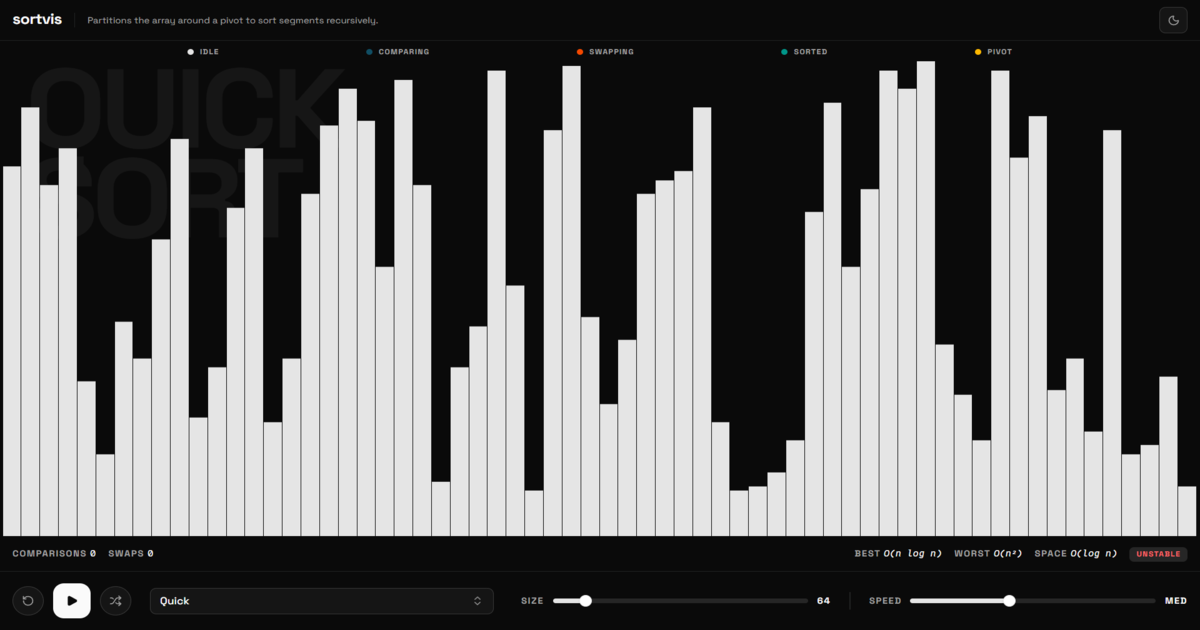
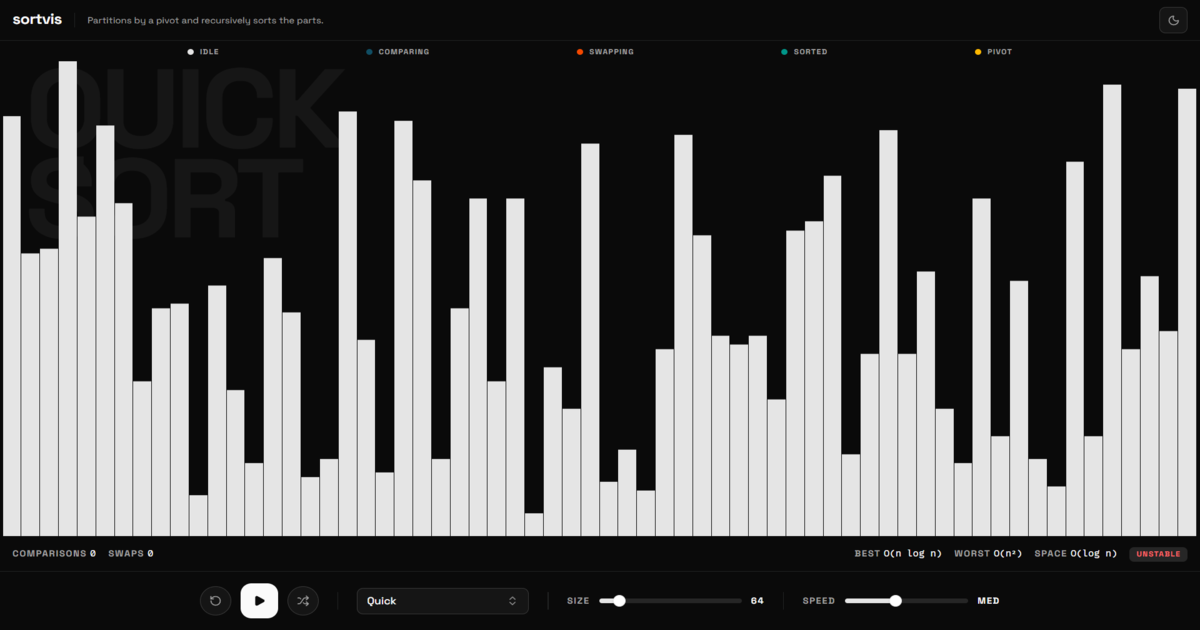
docs: updates README to reflect directory structure changes and adds build technology information

diff --git a/README.md b/README.md
@@ -28,6 +28,7 @@ Make sure you have [Bun](https://bun.sh/) **or** [Node.js](https://nodejs.org/) 
    ```bash
    git clone https://github.com/qonTesq/sortvis.git
    ```
+
 2. Navigate to the project directory:
    ```bash
    cd sortvis
@@ -86,7 +87,11 @@ src/
 │   ├── algorithms/    # Sorting logic implementations (Bubble, Quick, Merge, etc.)
 │   ├── components/    # Svelte UI components (Canvas renderer, Controls, Header, Footer)
 │   ├── config/        # Algorithm configurations & metadata
-│   ├── state/         # Centralized visualizer engine and global states
+│   ├── store/         # Centralized visualizer engine and global states
 │   └── types/         # TypeScript interfaces and discriminator types
 └── routes/            # Main entry point and page layouts
 ```
+
+---
+
+Built using [Svelte](https://svelte.dev/), [SvelteKit](https://kit.svelte.dev/), [shadcn-svelte](https://www.shadcn-svelte.com/), and [Vite](https://vite.dev/).
